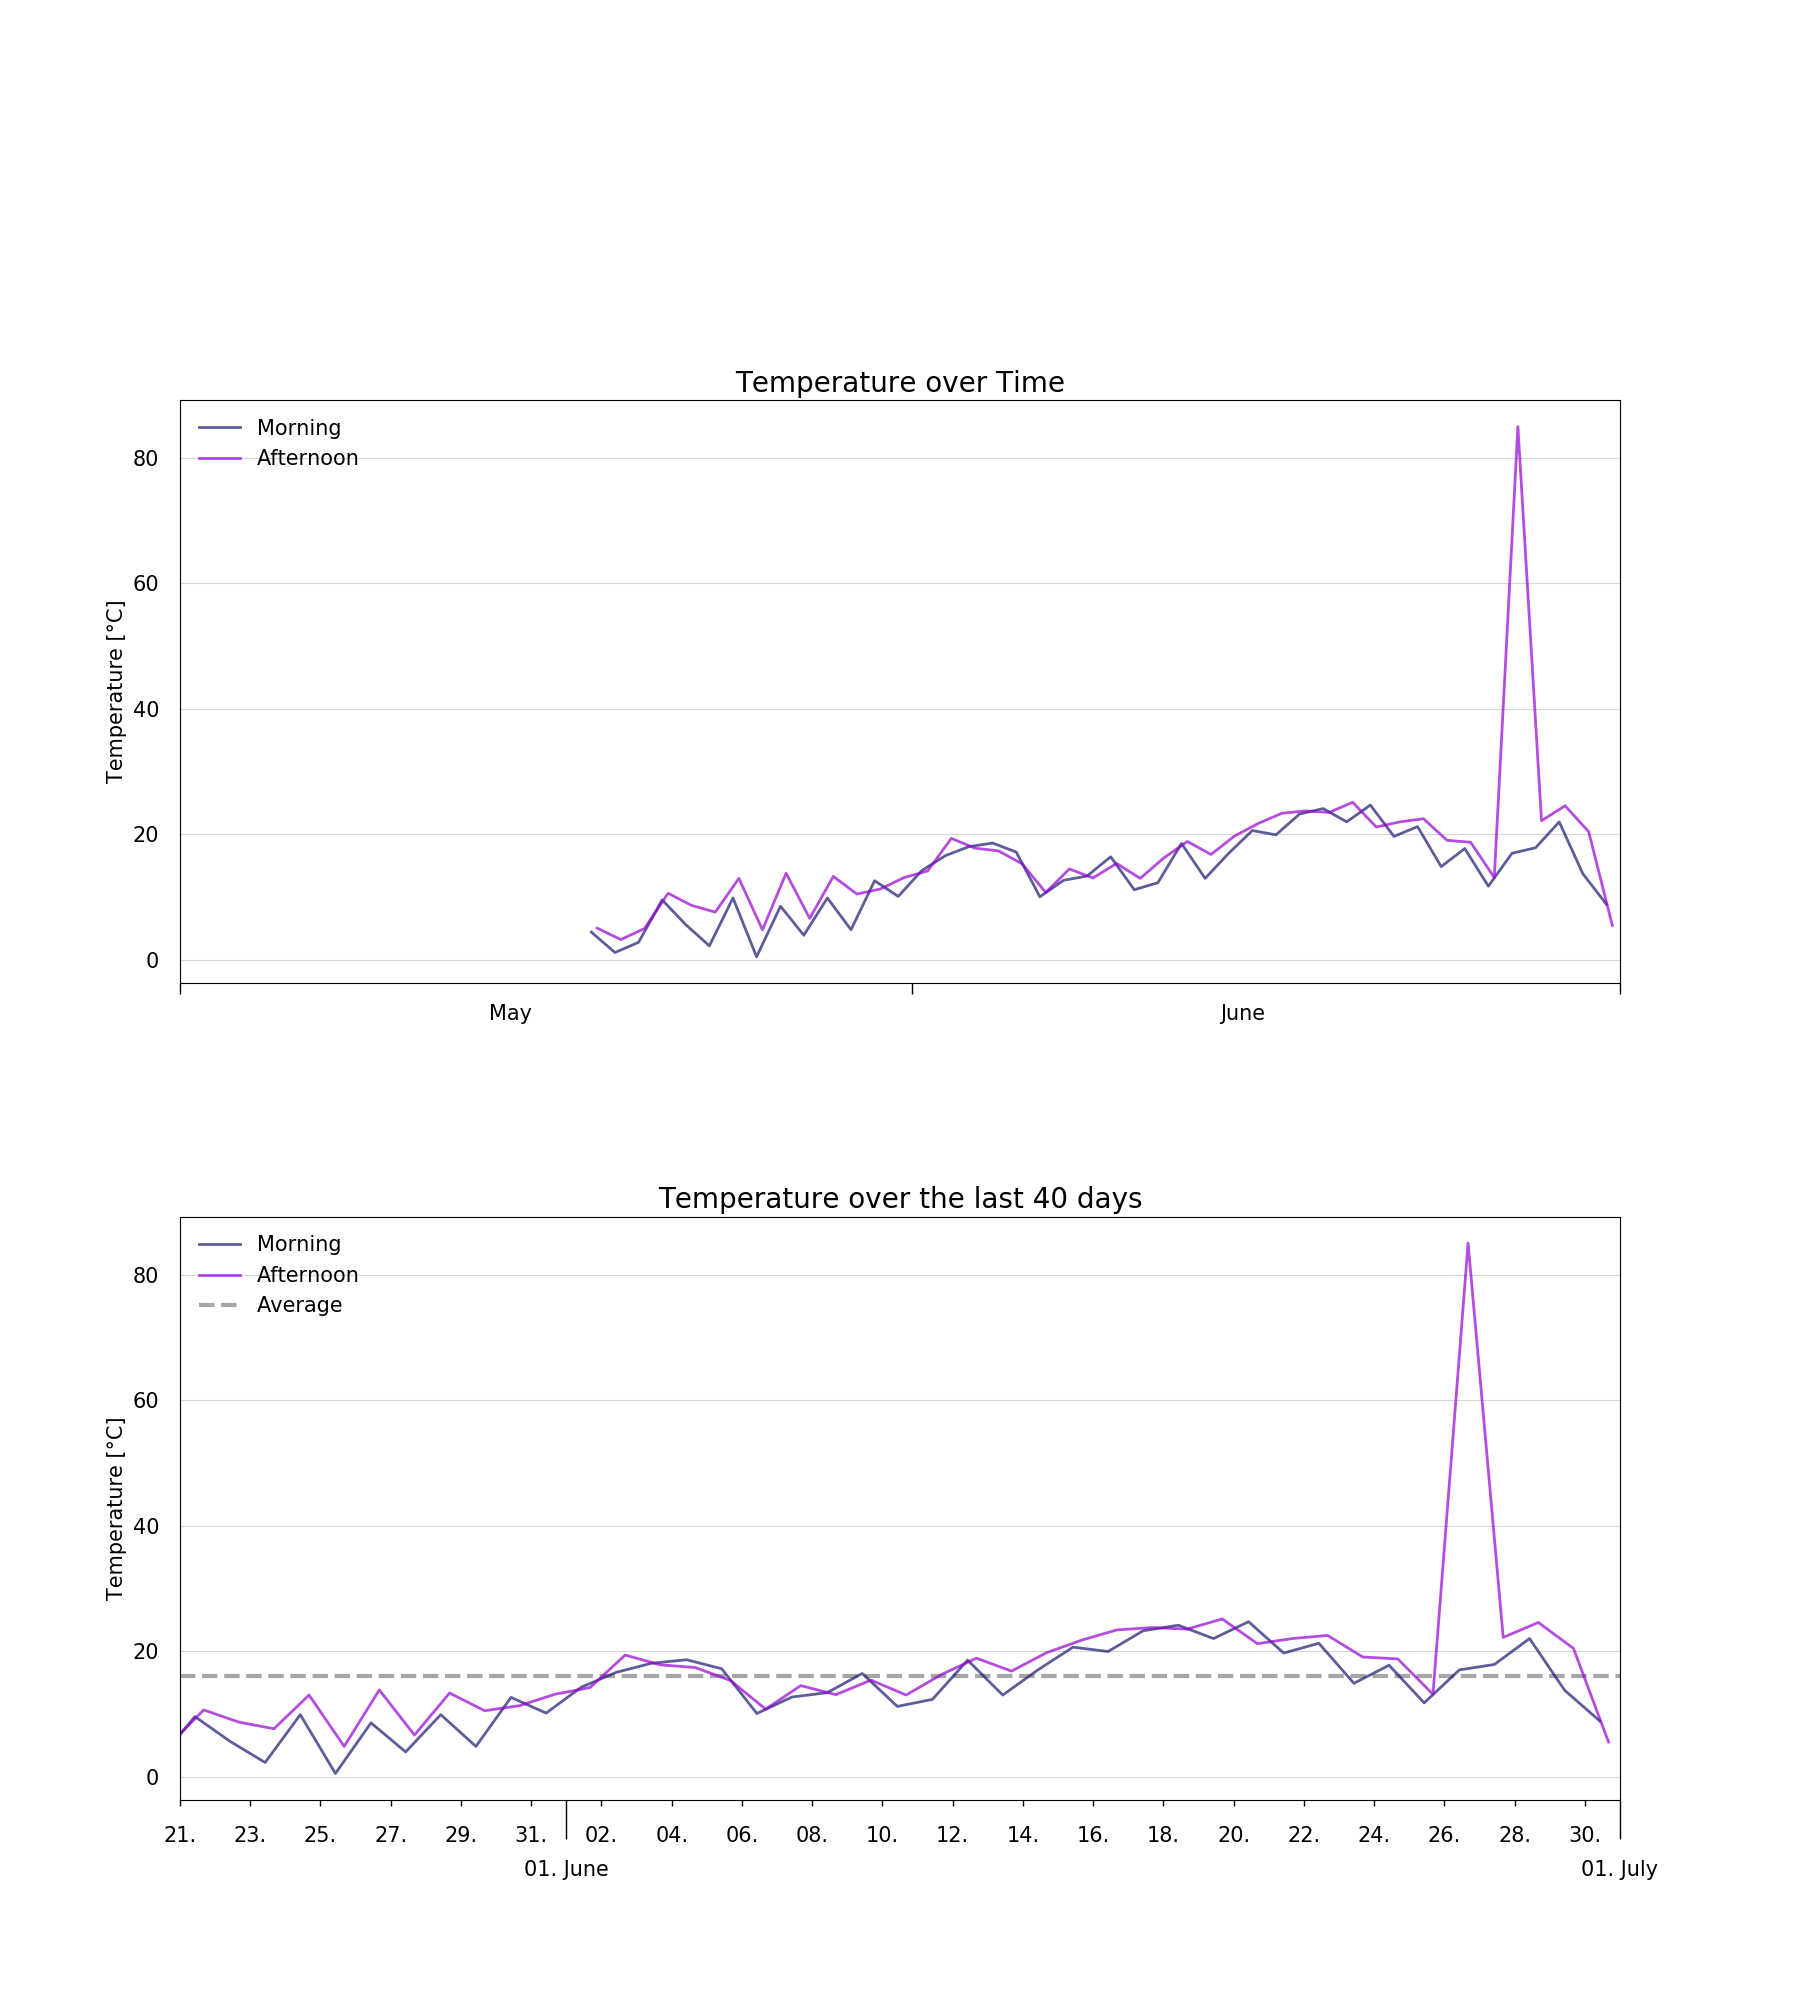
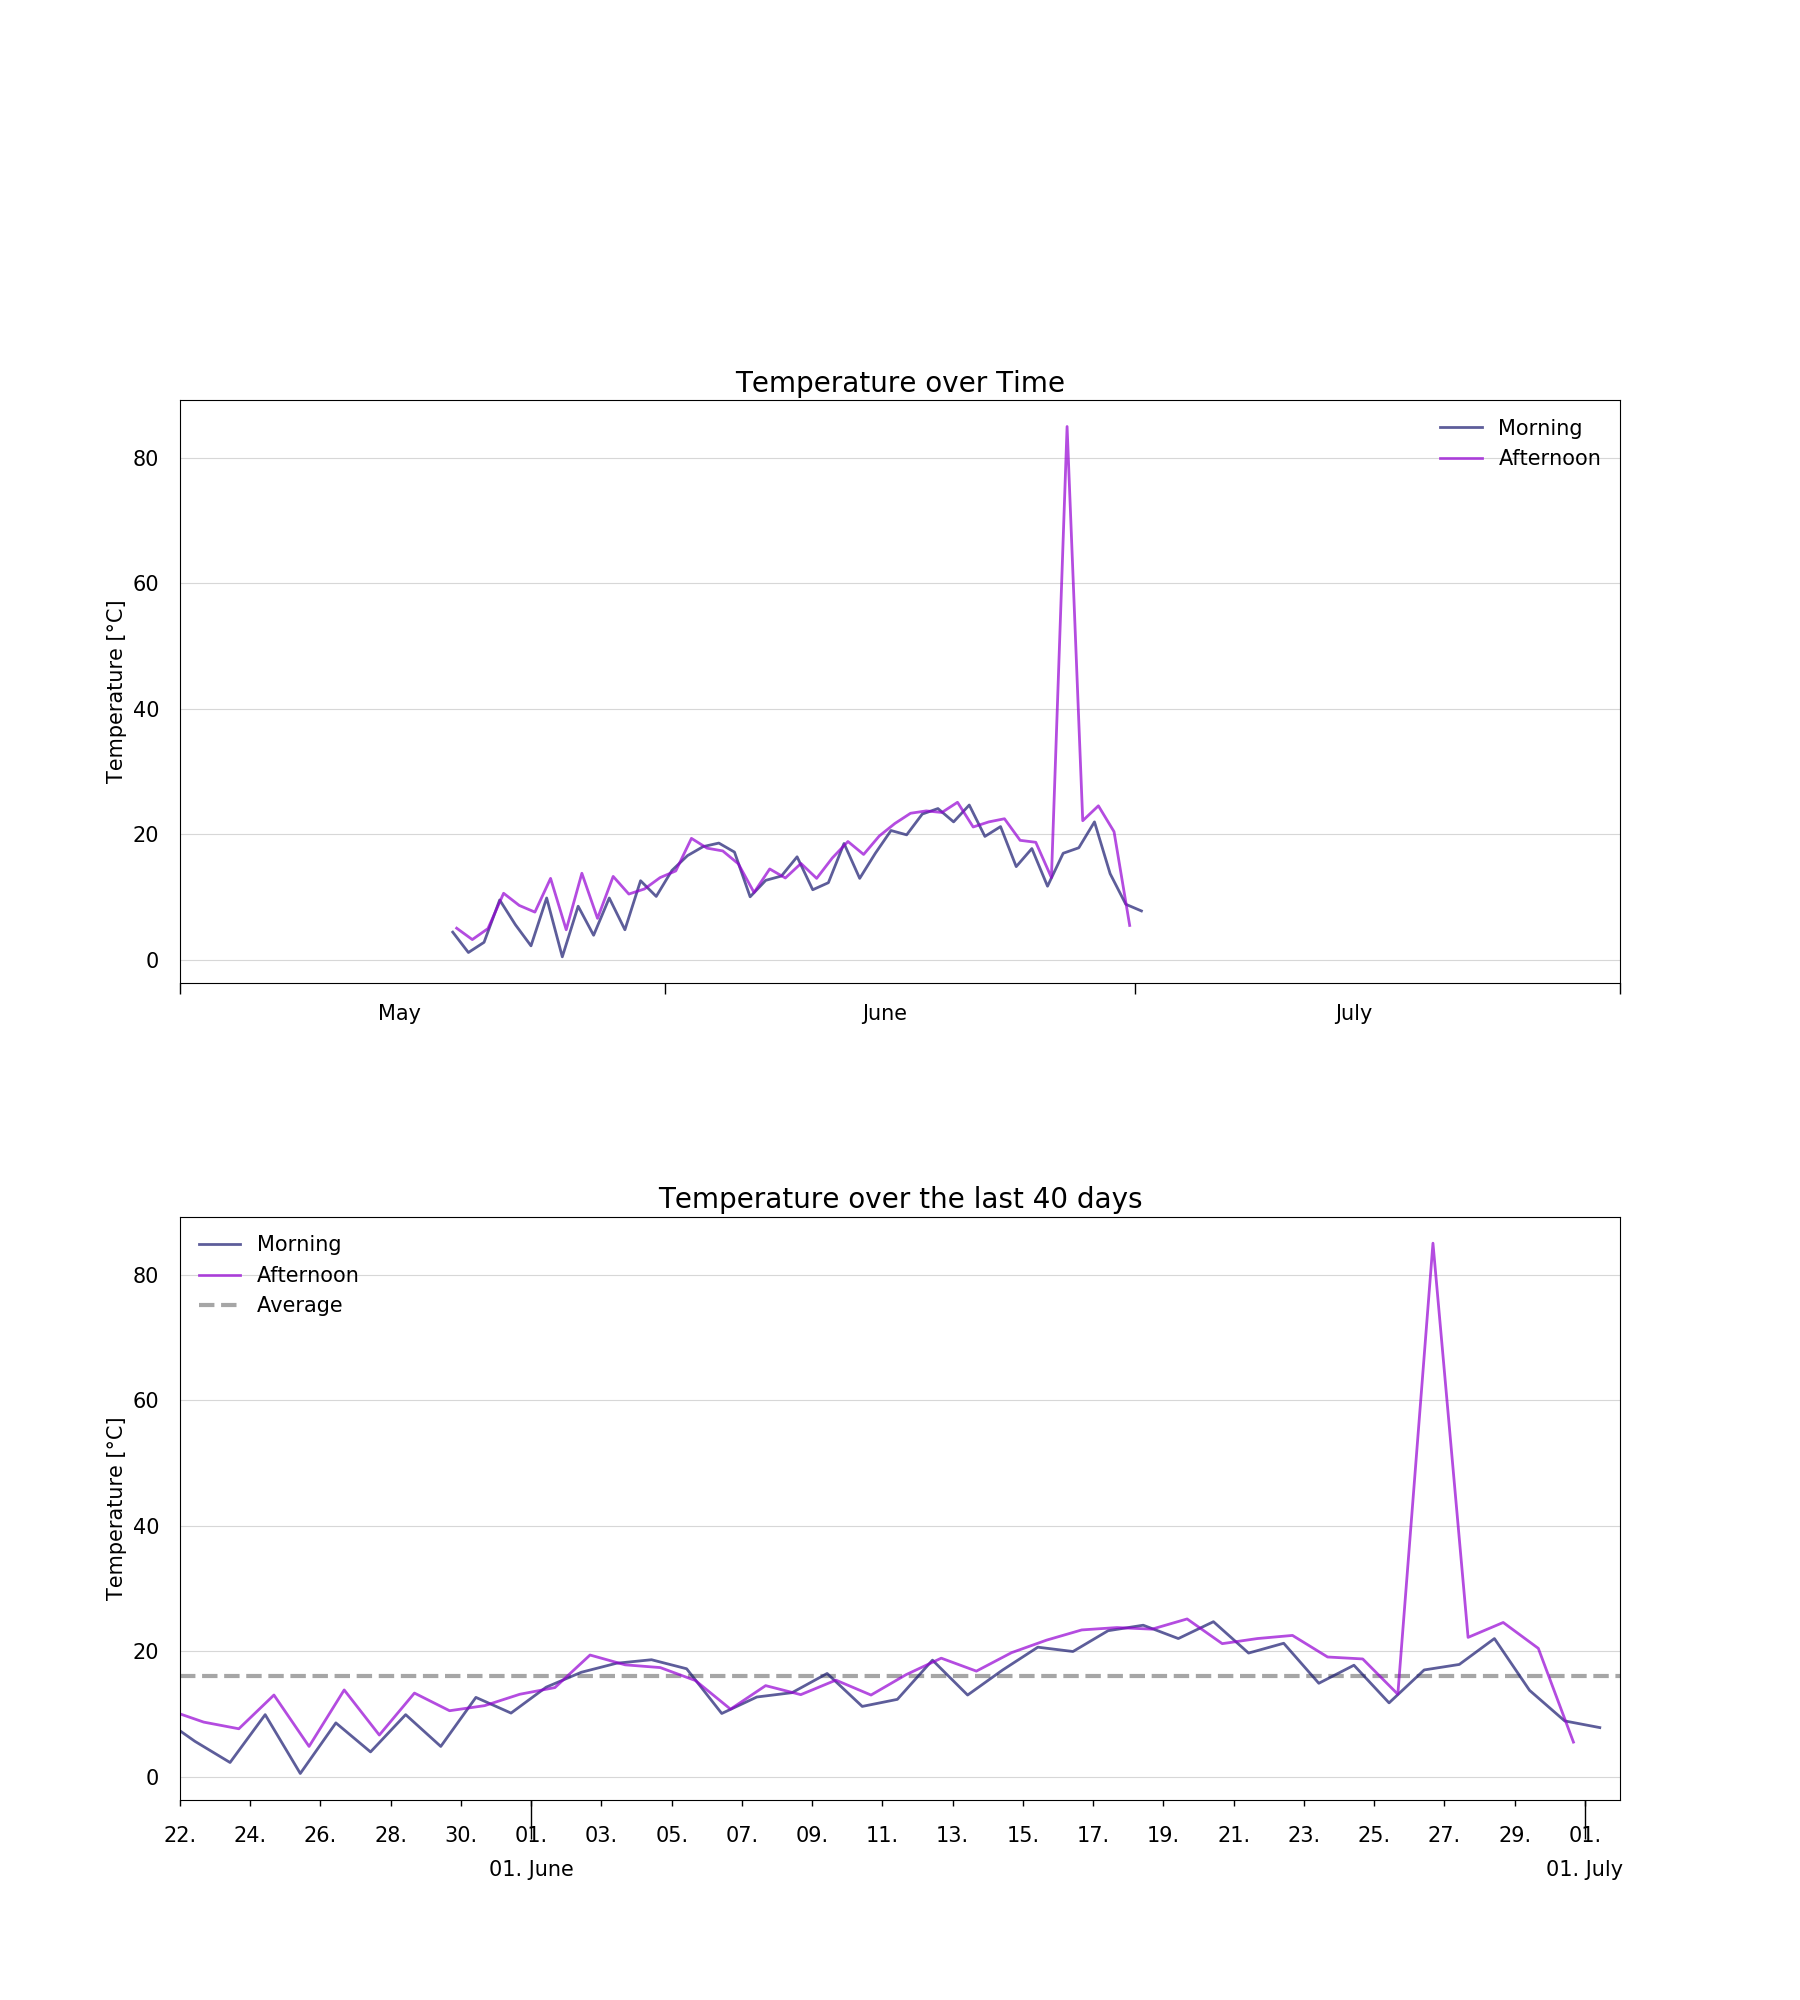
I'm a bot beep boop

diff --git a/resources/huette.md b/resources/huette.md
@@ -6,13 +6,13 @@ image: '/assets/img/'
 description: 'Live image from the Austrian alps'
 twitter_text: ' '
 ---
-## Latest image from 30 June 2021 at 16:12
+## Latest image from 01 July 2021 at 10:12
 <div class="huette">
   <div class="huette-image">
     <img src="{{ "/assets/img/huette.jpg" | prepend: site.baseurl }}">
   </div>
   <div class="huette-text">
-        <h2>Current Temperature: 5.5°C</h2>
+        <h2>Current Temperature: 7.812°C</h2>
         <p>A solar powered raspberry pi left alone in the wild is sending daily images and temperature data to this website. It should give you an impression about the current weather in the "Brixental".</p>
 
   </div>

diff --git a/rpi-script/huette.md b/rpi-script/huette.md
@@ -6,13 +6,13 @@ image: '/assets/img/'
 description: 'Live image from the Austrian alps'
 twitter_text: ' '
 ---
-## Latest image from 30 June 2021 at 16:12
+## Latest image from 01 July 2021 at 10:12
 <div class="huette">
   <div class="huette-image">
     <img src="{{ "/assets/img/huette.jpg" | prepend: site.baseurl }}">
   </div>
   <div class="huette-text">
-        <h2>Current Temperature: 5.5°C</h2>
+        <h2>Current Temperature: 7.812°C</h2>
         <p>A solar powered raspberry pi left alone in the wild is sending daily images and temperature data to this website. It should give you an impression about the current weather in the "Brixental".</p>
 
   </div>
